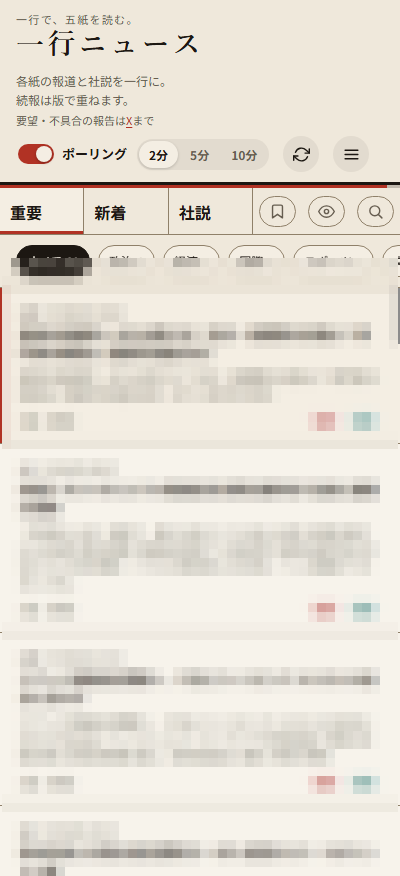
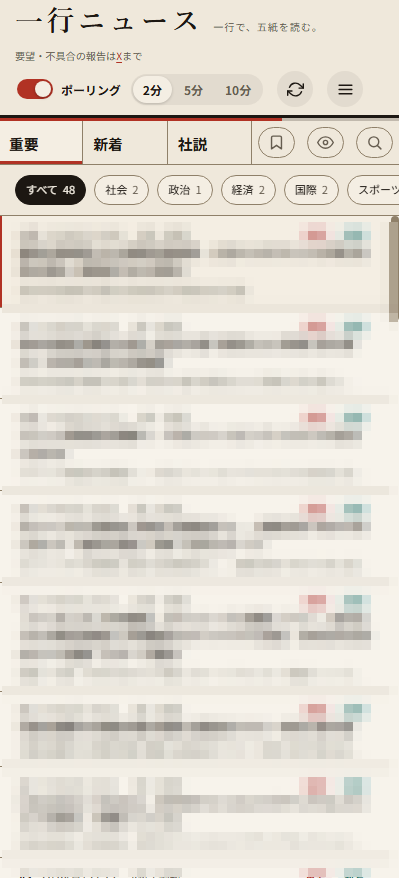
README: スクリーンショットを実機撮影の2枚に差し替え、「できること」を追加

diff --git a/README.md b/README.md
@@ -8,6 +8,17 @@
 
 取得はアプリを開いた時だけ。記事ページの本文は取りに行きません。RSSで届いた見出しと抜粋を並べ、続きは元記事へのリンクから読む形です。要約は「要点」と呼んでいる抽出で、AIではなくルールで文を選んでいます。その割り切りも含めての仕様です。
 
+**できること**
+- 五紙と NHK、共同・時事の見出しを RSS で集め、同じニュースを一行にまとめる
+- 続報は新しい行を作らず、版（v2、v3…）で重ねる。古い版も残る
+- 各紙の報道（RSS 抜粋）と社説を同じ画面で比べる。社説が確認できないものは「確認できず」と出す
+- 重要・新着・社説の3つの見方と、カテゴリの絞り込み
+- キーワードを登録すると、その話題を更新のたびに集めてくる
+- キーワード検索とブックマーク
+- ポーリング（2分・5分・10分）で、開きっぱなしでも新着を追う。未読数はタブのタイトルに出る
+- テーマは紙・古紙・白黒・灯・墨。文字の大きさと一覧の密度も変えられる
+- データは自分の PC の中だけに置く。開いたときだけ取得するので、常駐サーバーはいらない
+
 ## なぜ作ったか
 
 見出しの強い記事ほど広く回る。回るうちに、その紙の切り取り方まで一緒に広がって、ものの見方が寄っていく。同じニュースを一行に集めて五紙の報道と社説を並べたのは、その対策としてだ。どこまでが事実で、どこからが各紙の味付けか、そこまでを興味の対象に。
@@ -22,21 +33,9 @@
 
 PC では一覧と詳細を並べる。
 
-![PCの一覧と詳細（テーマ「墨」）](docs/images/pc-dark.png)
-
-ダークテーマ「墨」で表示した場合。
-
 ![スマホ幅の一覧](docs/images/mobile.png)
 
 スマホ幅では一覧と詳細を別画面に分け、スワイプで行き来する。
-
-![スマホ幅の詳細](docs/images/mobile-detail.png)
-
-スマホ幅の詳細。版はチップで切り替える。
-
-![設定メニューを開いた状態](docs/images/pc-settings.png)
-
-テーマは紙・古紙・白黒・灯・墨から選べる。
 
 ## 仕組み
 
